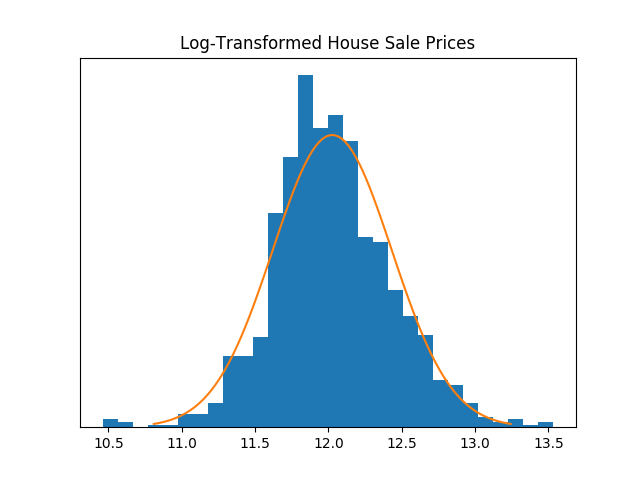
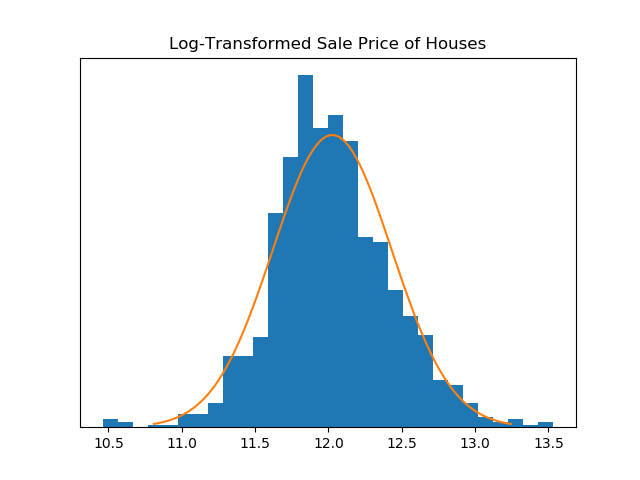
Finished draft of writeup. Changed label on a graph. Added another diagnostic to predict.py.

Changed region(s): [[0.2812, 0.0625, 0.75, 0.125]]

diff --git a/src/visualizations/plots.py b/src/visualizations/plots.py
@@ -20,7 +20,7 @@ def main(argv):
 
     # Plot untransformed response variable
     plt.hist(y, bins=30, density=True)
-    plt.title("House Sale Prices")
+    plt.title("Sale Price of Houses")
     mu = np.mean(y)
     variance = np.var(y)
     sigma = np.sqrt(variance)
@@ -32,7 +32,7 @@ def main(argv):
 
     # Plot transformed response variable
     plt.hist(y_transform, bins=30, density=True)
-    plt.title("Log-Transformed House Sale Prices")
+    plt.title("Log-Transformed Sale Price of Houses")
     mu = np.mean(y_transform)
     variance = np.var(y_transform)
     sigma = np.sqrt(variance)

diff --git a/src/models/predict.py b/src/models/predict.py
@@ -27,9 +27,10 @@ def main(argv):
 
     # Calculate error of log-transformed response var
     if y is not None:
-        y = np.log(y)
-        error = loss_function(y_pred, y)
-        print("RMSE is %f" % error)
+        error = loss_function(np.exp(y_pred), y)
+        print("RMSE of untransformed prices is %f" % error)
+        error = loss_function(y_pred, np.log(y))
+        print("RMSE of log-transformed prices is %f" % error)
 
     # Output test predictions
     y_pred = np.exp(y_pred)  # reverse transformation of response var

diff --git a/reports/kaggle-house-prices.rst b/reports/kaggle-house-prices.rst
@@ -29,7 +29,7 @@ complete with the price of each house, into training and
 cross-validation (CV) datasets. Having a CV dataset lets you
 compare the performance of models on out-of-sample data, thereby
 avoiding overfitting and getting a more accurate estimate of its
-perfomrance. I randomly partitioned the labeled dataset into the
+performance. I randomly partitioned the labeled dataset into the
 training and CV datasets, since I do not know if there is some
 order to how they are presented in the file Kaggle provides which
 might bias my model.
@@ -42,17 +42,25 @@ new value "Unknown."
 
 To select from the many features, I used some simple heuristics.
 For the numeric variables, I calculated the variance of each
-within the training data. I plotted a histogram of these and found
-an "elbow" where there was a significant drop-off in variance. I
-then selected all variables with variance above this threshold.
-This amounted to 12 variables, about a third of the numeric
-variables available. The rationale behind this is that variables
-with low variance do not provide much discriminating information
-between houses, since all of the houses will have similar values.
+within the training data. I produced a scatter plot of the
+variances of the variables, sorted in ascending order. In this
+plot, I found an "elbow" where there was a significant drop-off
+in variance. I then selected all variables with variance above
+this threshold. This amounted to 12 variables, about a third of
+the numeric variables available. The rationale behind this is that
+variables with low variance do not provide much discriminating
+information between houses, since all of the houses will have
+similar values.
+
+.. figure:: ./figures/numeric-selection.png
+   :align: center
+
+   "Elbow" in the plot of variances of numeric variables
+
 For each of the categorical variables, I calculated the entropy_,
 assuming each value was pulled from a multinomial distribution.
 Entropy is a measure of the amount of "information" contained in
-a stoachastic process. Random variables with little "surprise" in
+a stochastic process. Random variables with little "surprise" in
 their realized values will have low entropy. For binary variables,
 the entropy calculated is equivalent to the variance of the
 corresponding Bernoulli distribution. After calculating the
@@ -61,7 +69,10 @@ threshold, and selected all of the variables above this threshold,
 in the same manner as the numeric variables. This amounted to 14
 variables, about a third of the categorical variables available.
 
-.. TODO: [Show plot of elbow in variance?]
+.. figure:: ./figures/categorical-selection.png
+   :align: center
+
+   "Elbow" in the histogram of entropy of categorical variables
 
 .. _entropy: https://en.wikipedia.org/wiki/Entropy_(information_theory)
 
@@ -79,7 +90,7 @@ that can be applied to all datasets uniformly, particularly
 when the processing procedure is "fitted" to the training data.
 The processing must then be applied to training data first, the
 parameters estimated, and those parameters stored somewhere so
-that they can be applied when processing the the CV and testing
+that they can be applied when processing the CV and testing
 datasets. Instead of writing out the parameters to disk, as I did
 for the scaler and regression parameters, I simply kept them in
 memory and processed all of the datasets at once. This is less
@@ -100,7 +111,7 @@ Before training the model, I performed some transformations on
 the data. I standardized the features, subtracting the mean and
 dividing by standard deviation to create features with zero mean
 and unit variance. If the features have different scales, the
-magnitiude of the fitted coefficients in the linear model will be
+magnitude of the fitted coefficients in the linear model will be
 influenced by the scale of the underlying variables and harder to
 compare. Coefficients of variables with a larger scale would also
 be penalized more highly if regularization is applied.
@@ -110,7 +121,7 @@ price response variable. There are two reasons for this: First,
 like most currency values, the house prices in the data are not
 normally distributed, which violates an assumption of the linear
 regression. This can be seen in the histogram below over which
-I've overlayed a fitted normal distribution.
+I've overlaid a fitted normal distribution.
 
 .. figure:: ./figures/y-hist.png
    :align: center
@@ -176,13 +187,23 @@ preprocessing steps and repeated:
 5. Before writing out the predictions, reverse the log-transform
    by exponentiating the predicted value.
 
-Compared to the leaderboard on the Kaggle website, my model's
-performance in fairly middling.
+The Kaggle competition is judged by the square root of the mean
+squared error (RMSE) of the predictions of the log-transformed
+house prices. This metric for our model (on the test dataset) is
+0.168, which is fairly middling compared to the leaderboard on the
+Kaggle website. For the CV dataset, the metric is 0.166, which is
+close to that of the test dataset, as we would expect.
 
-.. TODO: what was my error rate? Put in context. The average house price is X. The predictions average deviation from this is Y.
+The metric is somewhat difficult to interpret, so I calculated the
+RMSE of the *un*-transformed prices for comparison. The RMSE for
+the untransformed prices in the CV dataset is $37,576. This is
+very roughly [#]_ the expected deviation of our prediction from
+the true price. The mean house price in this dataset is $178,186;
+so, although our error is significant, the predictions are within
+the ballpark of the true values.
 
-There are many optimiziations left
-to be made. Here are some things to try in the future:
+There are many avenues to explore which could improve the
+model's performance. Here are some things to try in the future:
 
 *   Engineer some custom features, especially ones that capture
     interactions between variables. These might be something like the
@@ -194,16 +215,21 @@ to be made. Here are some things to try in the future:
     they could be taken advantage of.
 *   Try some alternate models, especially those that can fit
     non-linear functions. There may be some non-linear interactions
-    between the house price and the indepdenent vairables, such as
+    between the house price and the independent variables, such as
     the price not being monotonically increasing with the value of an
     independence variable. One plausible explanation of this might be
     something along the lines of: a larger yard may correlate with a
     more valuable property, but it may correlate with a more rural
     location; the negative effect of the rural location on the house
-    price might outweight the increase from the larger yard.
+    price might outweigh the increase from the larger yard.
 *   Supplement external data: we are given the names of
-    neighborhoods of the houses. There is publically available data on
+    neighborhoods of the houses. There is publicly available data on
     houses and their prices from these locations. This data could be
     collected and used to supplement the data provided by Kaggle. Or,
     a secondary model could be built from the external data and then
     combined with the model trained on the Kaggle data in an ensemble.
+
+.. [#] The RMSE is in fact the standard deviation of the
+    residuals, which are the differences between each prediction and
+    true value. The standard deviation is the square root of the
+    expected squared deviation, rather than the expected deviation.
